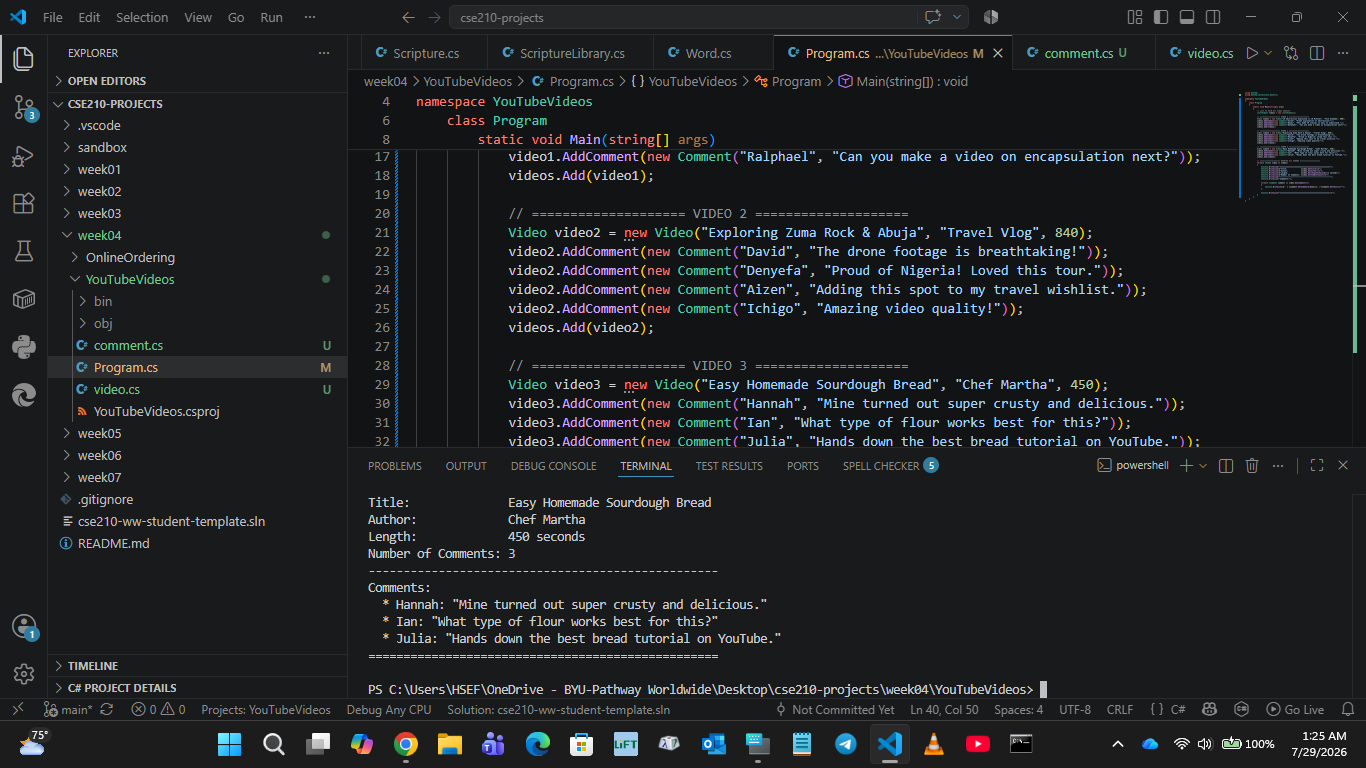
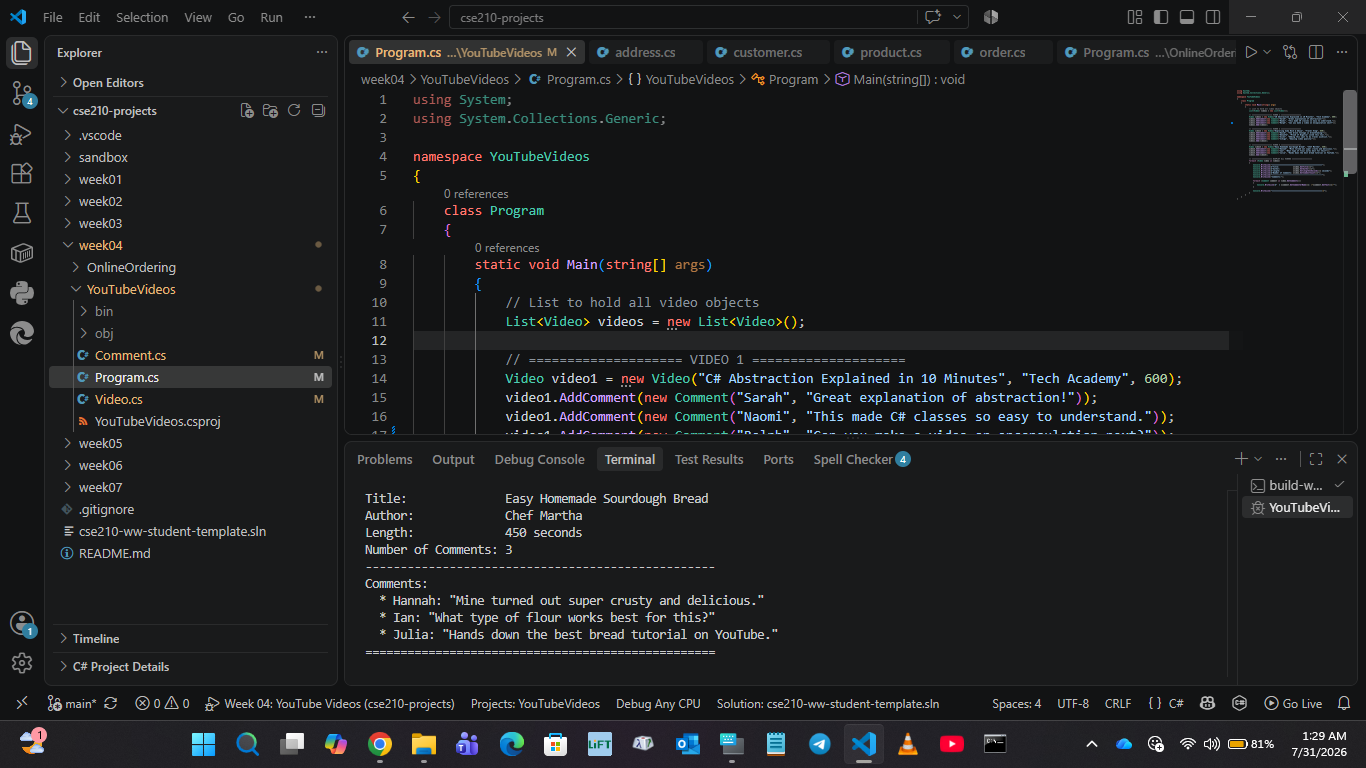
youtubenew

diff --git a/week04/YouTubeVideos/Program.cs b/week04/YouTubeVideos/Program.cs
@@ -14,7 +14,7 @@ namespace YouTubeVideos
             Video video1 = new Video("C# Abstraction Explained in 10 Minutes", "Tech Academy", 600);
             video1.AddComment(new Comment("Sarah", "Great explanation of abstraction!"));
             video1.AddComment(new Comment("Naomi", "This made C# classes so easy to understand."));
-            video1.AddComment(new Comment("Ralphael", "Can you make a video on encapsulation next?"));
+            video1.AddComment(new Comment("Ralph", "Can you make a video on encapsulation next?"));
             videos.Add(video1);
 
             // ==================== VIDEO 2 ====================

diff --git a/week04/YouTubeVideos/video.cs b/week04/YouTubeVideos/video.cs
@@ -23,7 +23,7 @@ namespace YouTubeVideos
             _comments.Add(comment);
         }
 
-        // Required method: Returns the total count of comments for this video
+        // Required method: Returns the total count of comments for the video
         public int GetCommentCount()
         {
             return _comments.Count;

diff --git a/week04/YouTubeVideos/comment.cs b/week04/YouTubeVideos/comment.cs
@@ -1,6 +1,6 @@
 namespace YouTubeVideos
 {
-    // The Comment class tracks the name of the person and their comment text
+    // The Comment class tracks the name of the person also their comment text
     public class Comment
     {
         private string _commenterName;
